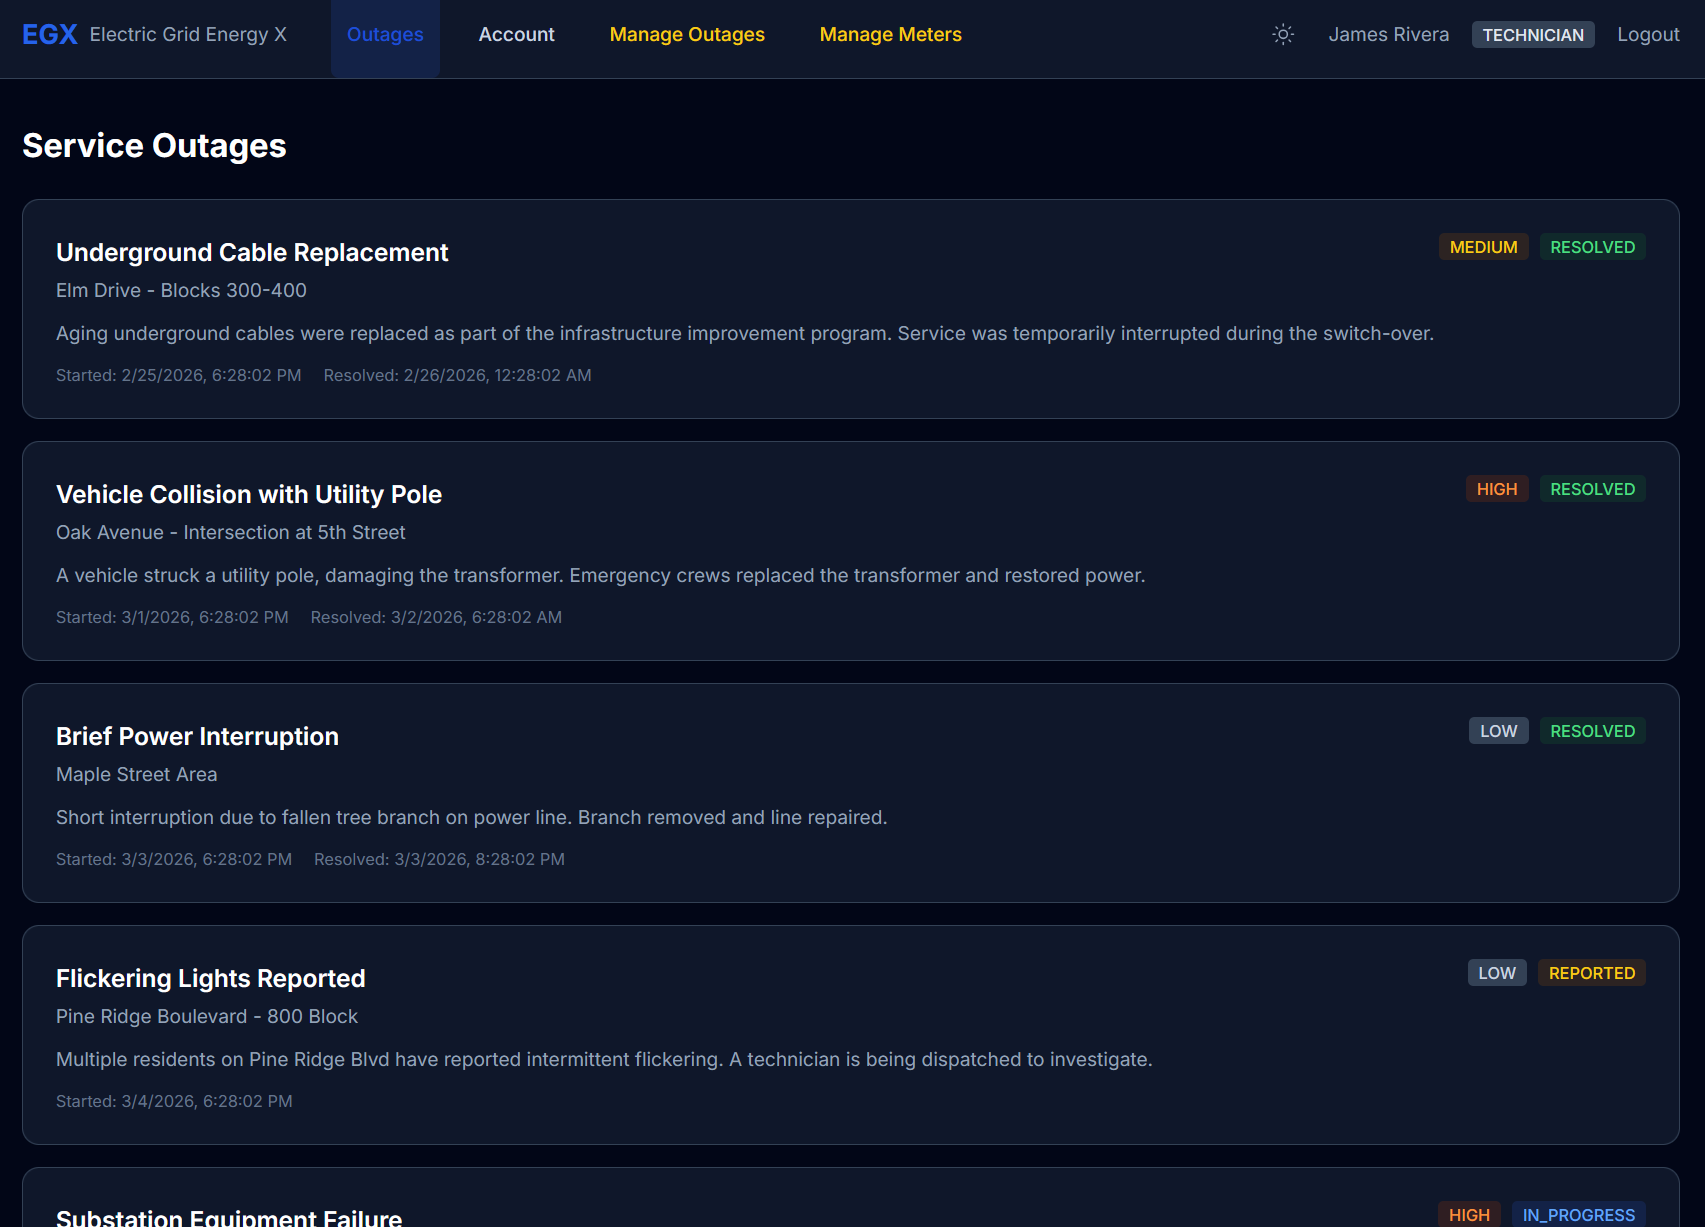
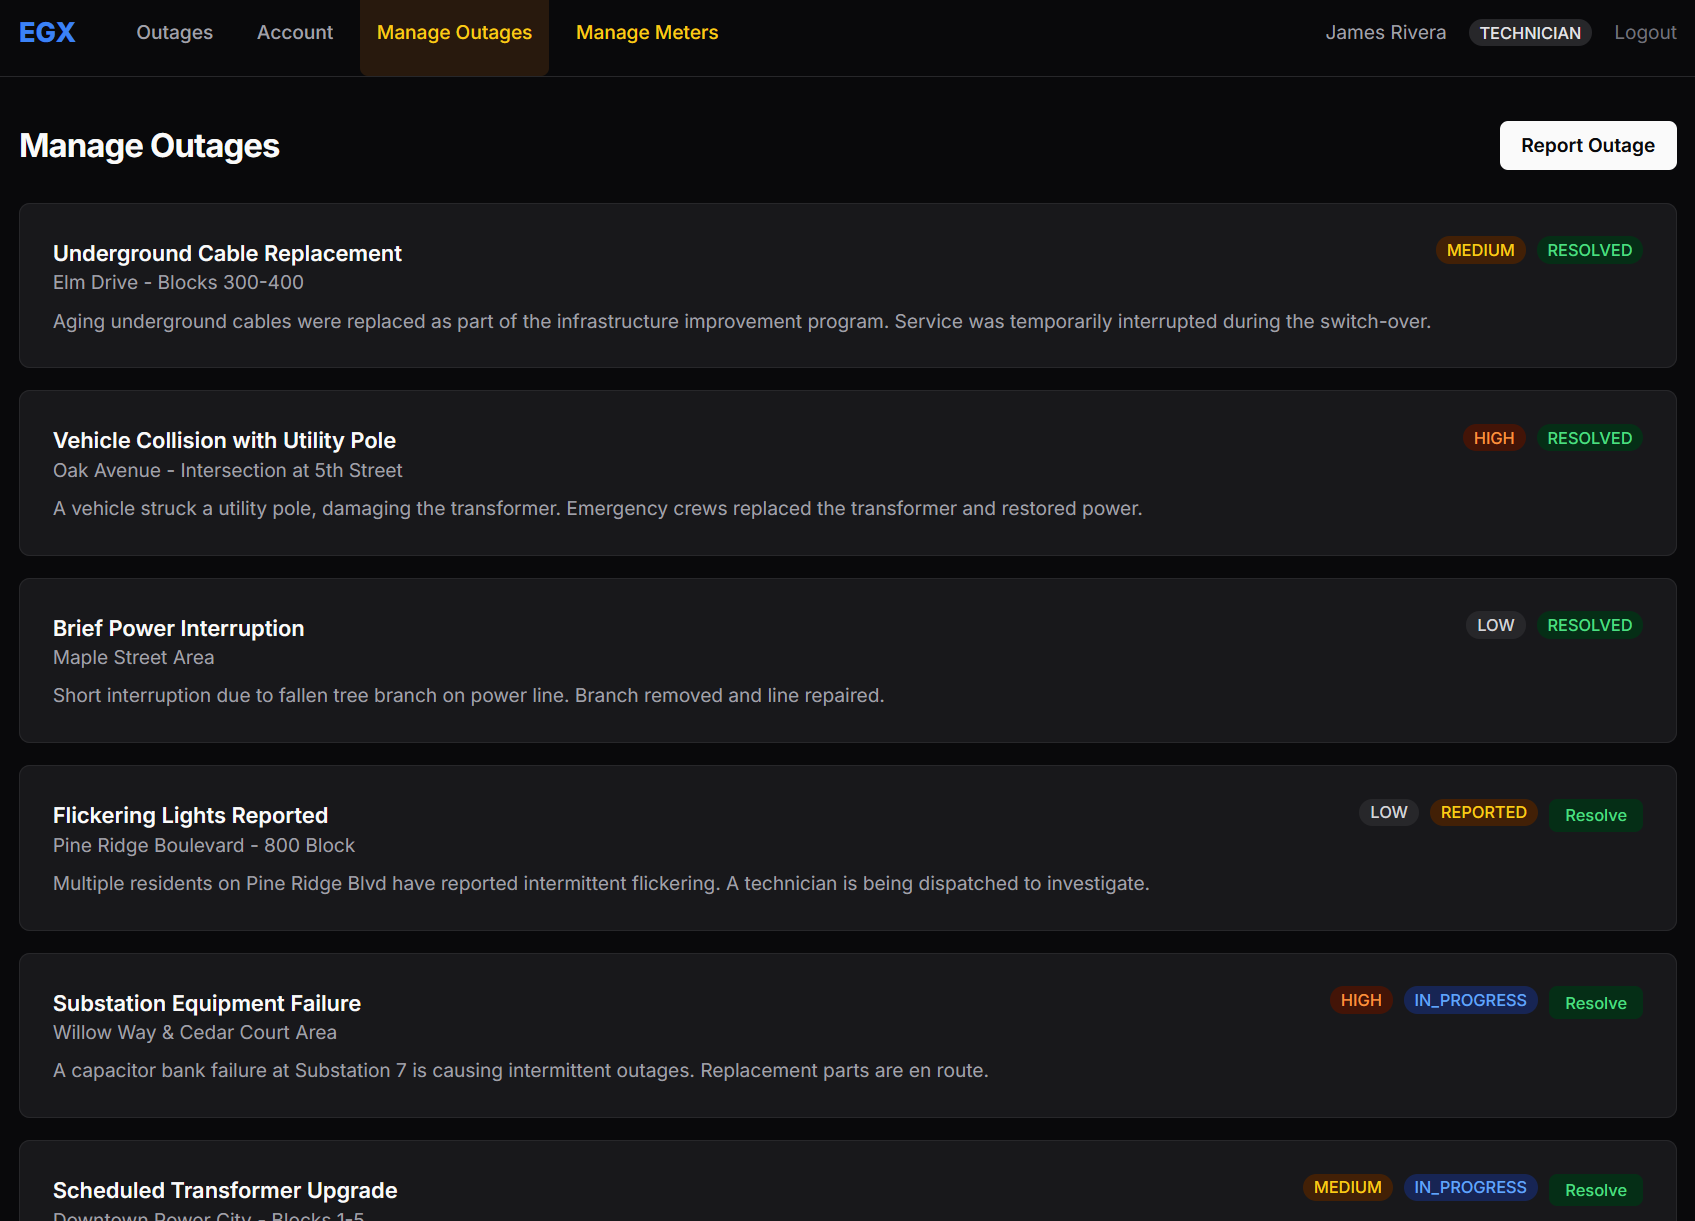
Updated screenshots of website

Changed region(s): [[0.0, 0.0934, 1.0, 1.0], [0.0, 0.0, 1.0, 0.0622], [0.0307, 0.9648, 0.2454, 1.0]]

diff --git a/README.md b/README.md
@@ -3,6 +3,8 @@
 Full-stack portfolio project for a fictional regional electricity provider. Demonstrates senior-level engineering across a TypeScript monorepo: production-pattern RESTful API, responsive web portal, cross-platform mobile app, and shared code infrastructure.
 
 ## Web App
+![Admin View](docs/screenshots/login-web.png)
+*Login Screen*
 
 ![Admin View](docs/screenshots/web-admin.png)
 *Admin*
